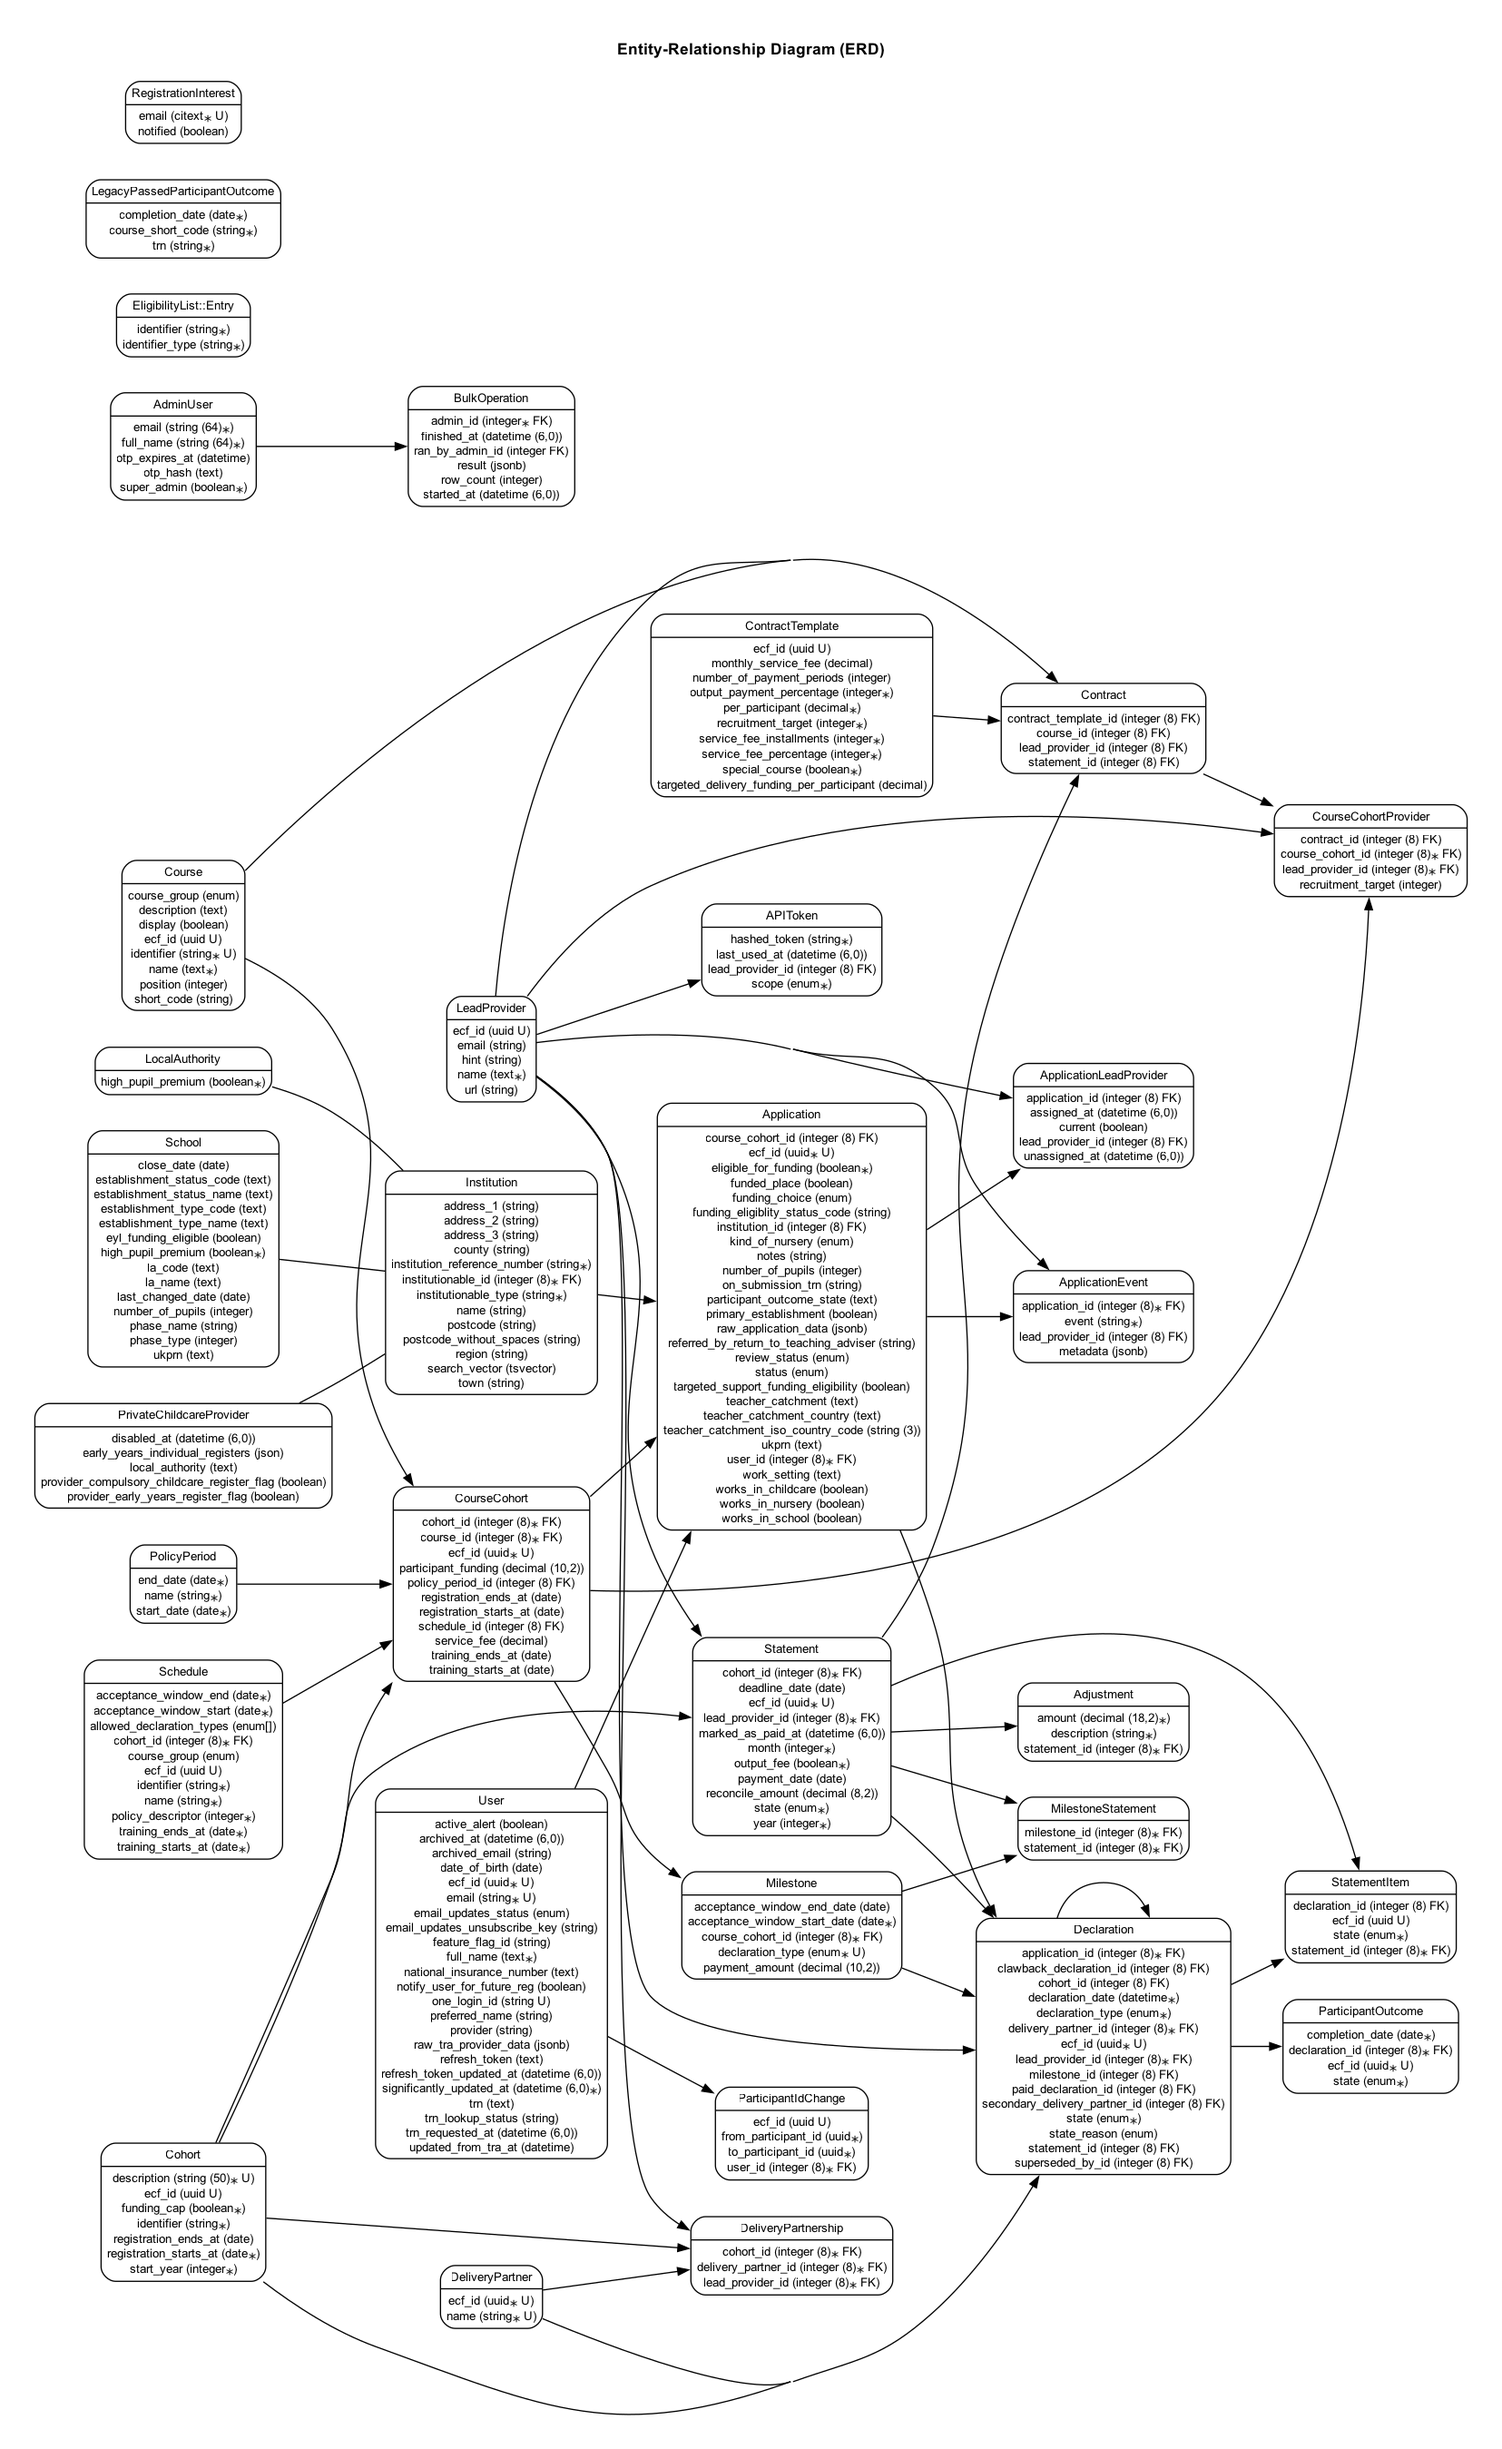
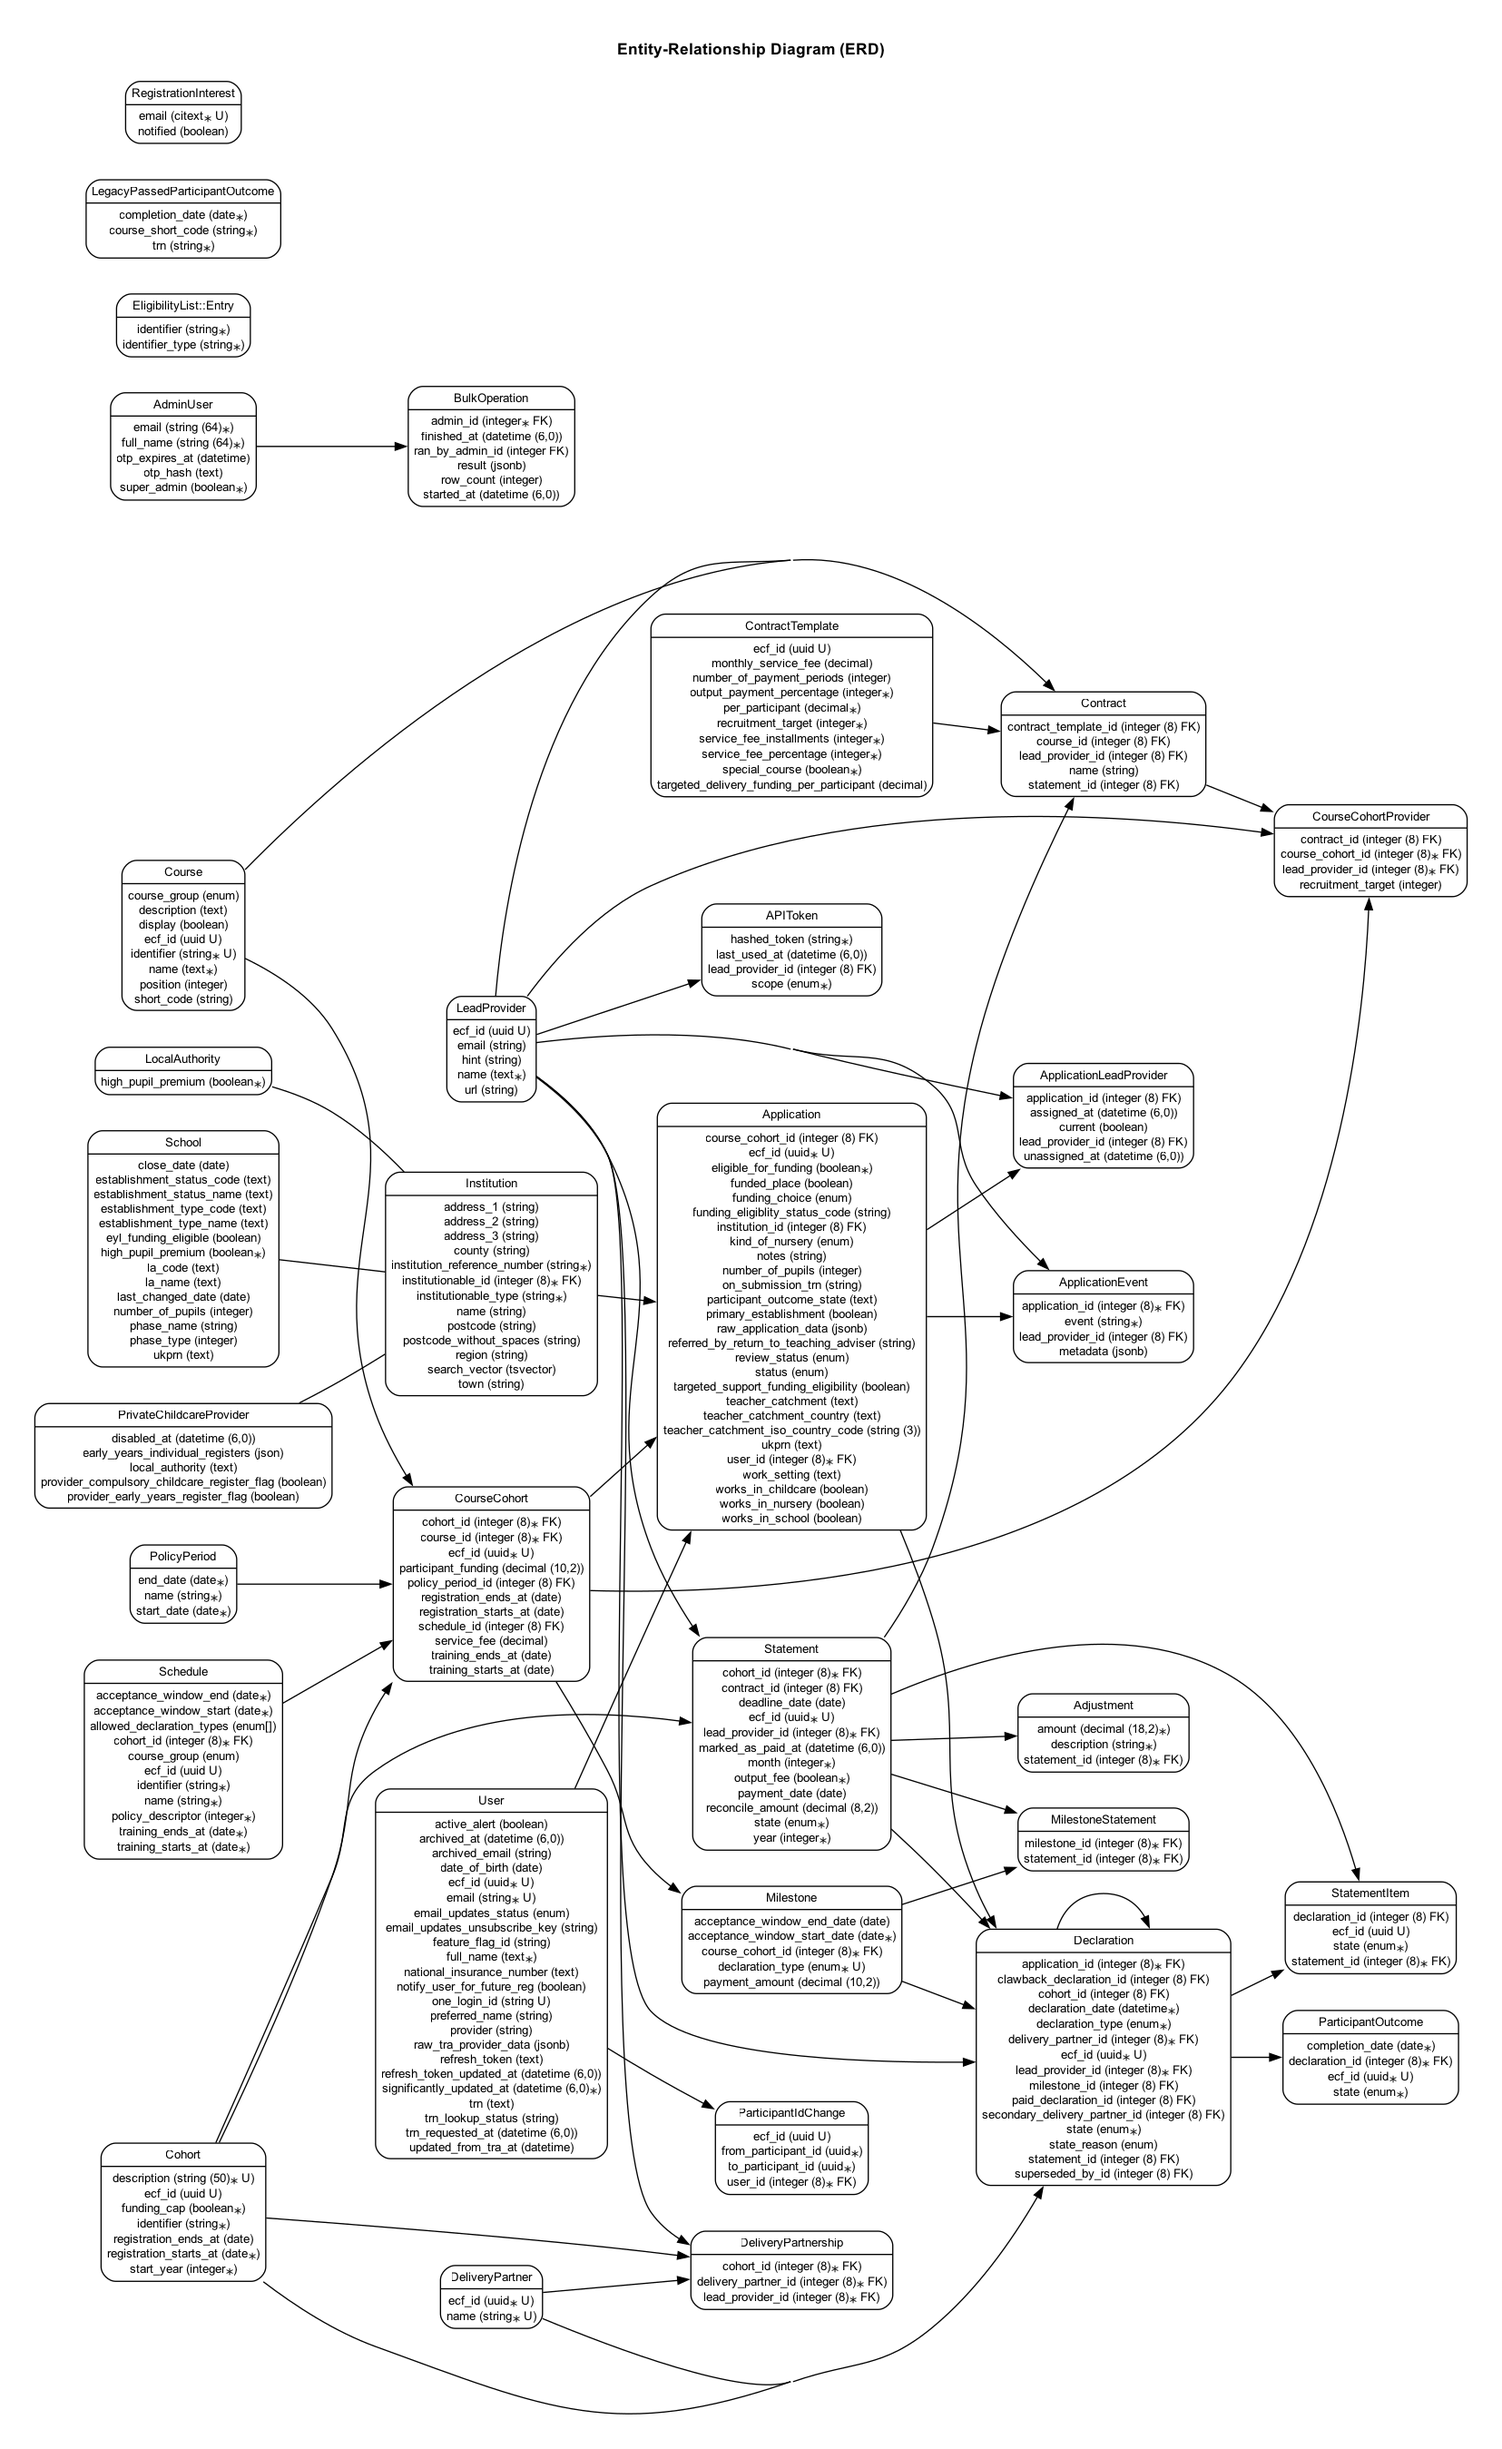
breakpoint

diff --git a/db/schema.rb b/db/schema.rb
@@ -10,7 +10,7 @@
 #
 # It's strongly recommended that you check this file into your version control system.
 
-ActiveRecord::Schema[8.1].define(version: 2026_07_27_107000) do
+ActiveRecord::Schema[8.1].define(version: 2026_07_27_108000) do
   # These are extensions that must be enabled in order to support this database
   enable_extension "btree_gin"
   enable_extension "citext"
@@ -214,6 +214,7 @@ ActiveRecord::Schema[8.1].define(version: 2026_07_27_107000) do
     t.bigint "course_id"
     t.datetime "created_at", null: false
     t.bigint "lead_provider_id"
+    t.string "name"
     t.bigint "statement_id"
     t.datetime "updated_at", null: false
     t.index ["contract_template_id"], name: "index_contracts_on_contract_template_id"
@@ -580,6 +581,7 @@ ActiveRecord::Schema[8.1].define(version: 2026_07_27_107000) do
 
   create_table "statements", force: :cascade do |t|
     t.bigint "cohort_id", null: false
+    t.bigint "contract_id"
     t.datetime "created_at", null: false
     t.date "deadline_date"
     t.uuid "ecf_id", default: -> { "gen_random_uuid()" }, null: false
@@ -593,6 +595,7 @@ ActiveRecord::Schema[8.1].define(version: 2026_07_27_107000) do
     t.datetime "updated_at", null: false
     t.integer "year", null: false
     t.index ["cohort_id"], name: "index_statements_on_cohort_id"
+    t.index ["contract_id"], name: "index_statements_on_contract_id"
     t.index ["ecf_id"], name: "index_statements_on_ecf_id", unique: true
     t.index ["lead_provider_id", "cohort_id", "year", "month"], name: "idx_on_lead_provider_id_cohort_id_year_month_2dece26c47", unique: true
     t.index ["lead_provider_id"], name: "index_statements_on_lead_provider_id"

diff --git a/app/services/valid_test_data_generators/npd_data_seeder.rb b/app/services/valid_test_data_generators/npd_data_seeder.rb
@@ -1,5 +1,5 @@
 module ValidTestDataGenerators
-  class PittDataSeeder
+  class NpdDataSeeder
     def run
       StatementItem.delete_all
       ParticipantOutcome.delete_all
@@ -68,7 +68,7 @@ module ValidTestDataGenerators
                           course_cohort: cc)
 
         lead_providers.each do |lead_provider|
-          contract = Contract.where(lead_provider:, course:).last || Contract.create!(lead_provider:, course:)
+          contract = Contract.where(lead_provider:, course:).last || Contract.create!(lead_provider:, course:, name: "#{policy_period.name} contract")
 
           CourseCohortProvider.create!(course_cohort: cc, lead_provider:, contract:)
         end
@@ -120,7 +120,7 @@ module ValidTestDataGenerators
     end
 
     def create_declaration(application:, milestone:, delivery_partner:)
-      FactoryBot.create(
+      d = FactoryBot.create(
         :declaration,
         application:,
         course_cohort: application.course_cohort,
@@ -128,8 +128,9 @@ module ValidTestDataGenerators
         milestone:,
         delivery_partner:,
         declaration_type: milestone.declaration_type,
-        declaration_date: [milestone.acceptance_window_start_date, Time.zone.today - 1.day].min,
+        declaration_date: Time.zone.today,
       )
+      d.update_column(:declaration_date, milestone.acceptance_window_start_date + rand(1..30).day)
     end
   end
 end

diff --git a/app/models/statement.rb b/app/models/statement.rb
@@ -2,15 +2,18 @@ class Statement < ApplicationRecord
   has_paper_trail meta: { note: :version_note }
   attr_accessor :version_note
 
-  belongs_to :cohort
   belongs_to :lead_provider
-  has_many :statement_items
-  has_many :contracts
-  has_many :statement_item_declarations, through: :statement_items, source: :declaration
-  has_many :declarations
-  has_many :adjustments
-  has_many :milestone_statements
-  has_many :milestones, through: :milestone_statements
+  belongs_to :contract, optional: true
+
+  # TODO: Delete these relationships
+  belongs_to :cohort, deprecated: true
+  has_many :statement_items, deprecated: true
+  has_many :contracts, deprecated: true
+  has_many :statement_item_declarations, through: :statement_items, source: :declaration, deprecated: true
+  has_many :declarations, deprecated: true
+  has_many :adjustments, deprecated: true
+  has_many :milestone_statements, deprecated: true
+  has_many :milestones, through: :milestone_statements, deprecated: true
 
   validates :output_fee, inclusion: { in: [true, false] }
   validates :month, numericality: { in: 1..12, only_integer: true }

diff --git a/app/controllers/admin/npd2/statements_controller.rb b/app/controllers/admin/npd2/statements_controller.rb
@@ -5,6 +5,16 @@ class Admin::Npd2::StatementsController < AdminController
     @contracts = contracts_for(@lead_provider)
   end
 
+  def create
+    @contract = Contract.includes(course_cohorts: %i[course cohort]).find(params[:contract_id])
+    @course_cohorts = @contract.course_cohorts
+    @milestones = Milestone.where(course_cohort: @course_cohorts).includes(course_cohort: %i[course cohort])
+    @declarations = Declaration
+      .where(milestone: @milestones)
+      .includes(:lead_provider, :delivery_partner, { milestone: { course_cohort: %i[course cohort] } }, application: :user)
+      .order(:declaration_date, :id)
+  end
+
 private
 
   def contracts_for(lead_provider)

diff --git a/app/models/contract.rb b/app/models/contract.rb
@@ -1,13 +1,14 @@
 class Contract < ApplicationRecord
   has_paper_trail
 
-  belongs_to :statement, optional: true
   belongs_to :lead_provider
-  belongs_to :course, optional: true
-  belongs_to :contract_template, optional: true
-
-  has_many :course_cohort_providers, dependent: :nullify
+  has_many :course_cohort_providers
   has_many :course_cohorts, through: :course_cohort_providers
+
+  # TODO: Delete these relationships
+  belongs_to :statement, optional: true, deprecated: true
+  belongs_to :course, optional: true, deprecated: true
+  belongs_to :contract_template, optional: true, deprecated: true
 
   delegate :monthly_service_fee,
            :number_of_payment_periods,

diff --git a/db/migrate/20260727108000_add_name_to_contracts_and_contract_reference_to_statements.rb b/db/migrate/20260727108000_add_name_to_contracts_and_contract_reference_to_statements.rb
@@ -1,0 +1,8 @@
+class AddNameToContractsAndContractReferenceToStatements < ActiveRecord::Migration[8.1]
+  disable_ddl_transaction!
+
+  def change
+    add_column :contracts, :name, :string
+    add_reference :statements, :contract, null: true, index: { algorithm: :concurrently }
+  end
+end

diff --git a/config/routes/admin.rb b/config/routes/admin.rb
@@ -165,7 +165,7 @@ namespace :admin do
   end
 
   namespace :npd2 do
-    resources :statements, only: %i[index]
+    resources :statements, only: %i[index create]
   end
 
   resources :lead_providers, only: %i[index show edit update], path: "providers" do
